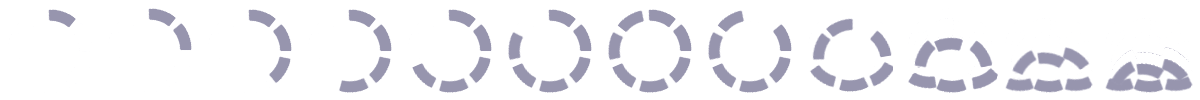
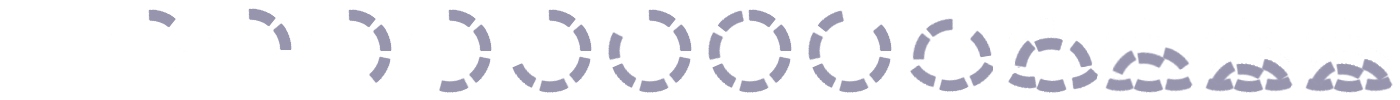
Changed door sprites and added loading loop. Mobile Text improvements WIP

Changed region(s): [[0.0925, 0.09, 1.0, 0.93], [0.0308, 0.09, 0.0617, 0.27]]

diff --git a/src/hud.js b/src/hud.js
@@ -39,7 +39,7 @@ function fadeInView (toggle, fadeTime, delay, restartTime) {
 		.color('#000000')
 		.tween({ alpha: 0}, fadeTime)
 		.bind("TweenEnd", function(){ 
-			console.log("tween complete"); 
+			//console.log("tween complete"); 
 			if (toggle) {
 				setTimeout(function() {
 					fadeOutView(false,restartTime);
@@ -57,9 +57,8 @@ function fadeOutView (toggle, fadeTime, delay, restartTime) {
 		.color('#000000')
 		.tween({ alpha: 1}, fadeTime)
 		.bind("TweenEnd", function(){ 
-			console.log("tween complete"); 
+			//console.log("tween complete"); 
 			if (toggle) {
-				loadingLoop();
 				setTimeout(function() {					
 					fadeInView(false,restartTime);
 				}, delay, restartTime);
@@ -79,7 +78,7 @@ function zoomOutFade() {
 
 function loadingLoop() {
 	//fadeOutView(false,1000);
-	var loadingIcon = Crafty.e('loadingAnimate, loading_reel').attr({x: ((maxWidth+2)*_tileSize)/2, y: ((maxHeight+4)*_tileSize)/2, w: 2*_tileSize, h: 2*_tileSize, alpha: 1});
+	var loadingIcon = Crafty.e('loadingAnimate, loading_reel').attr({x: centerPoint._x-(_tileSize*1.5), y: centerPoint._y-_tileSize, w: 2*_tileSize, h: 2*_tileSize, alpha: 1});
 	Crafty('fadeOut').attach(loadingIcon);
 	Crafty('loadingAnimate').loadingForward();
 }
@@ -135,6 +134,8 @@ function footerChange(expand) {
 
 function popUpClickHandlers() {
 	$( "#gamePopUp" ).on('mouseup', '#popUpEndBtnImg' ,function() {
+		//fade in view
+		fadeInView(false, 500);
 		//Expand the footer
 		console.log("clicked endGame");
 		//destroy the popup.
@@ -152,6 +153,7 @@ function popUpClickHandlers() {
 			userPlayerSaved.lost = userPlayerSaved.lost + 1;
 			userPlayerSaved.lostScore = userPlayerSaved.lostScore + userPlayer.score.potentialLost;
 		}
+		userPlayerSaved.active = false;
 		//Save Game Data
 		userPlayerSaved.g.push(new gameSaveObj(userPlayer.score.actual, gameSeed));
 
@@ -165,6 +167,7 @@ function popUpClickHandlers() {
 
 	$( "#gamePopUp" ).on('mouseup', '#popUpConBtnImg' ,function() {
 		//Expand the footer
+		fadeInView(false, 500);
 		console.log("clicked Continue Game");
 		//destroy the popup.
 		popUpDestroy();
@@ -180,6 +183,7 @@ function popUpDestroy() {
 }
 
 function popUpCreate() {
+	fadeOutView(false, 500);
 	$('#gamePopUp').css('top', (Crafty.viewport.height*.05)+'px');
 	$('#gamePopUp').css('left', (Crafty.viewport.width*.05)+'px');
 	$('#gamePopUp').height(Crafty.viewport.height*.8);
@@ -203,15 +207,29 @@ function popUpCreate() {
 	var userPlayerSaved = JSON.parse(localStorage.playerSaveData);
 	var totalRank = getRank((parseInt(userPlayerSaved.score) + userPlayer.score.actual));
 	if (isHome) {
-		$('#gamePopUp').html('<table id="endGamePopUpTable"><tr><th colspan="4"><strong>Are you sure you are ready to leave?</strong></th></tr><tr><td colspan="4"></td></tr><tr><td colspan="4"><hr></td></tr><tr><td colspan="2">Current Location:</td><td colspan="1" align="center" class="popUpValue ' + lostClass + ' ">' + textLost + '</td><td></td></tr><tr><td colspan="4"><hr></td></tr><tr><td colspan="3">Total number of rooms explored:</td><td class="popUpValue">' + userPlayer.score.actual + '</td></tr><tr><td colspan="3">All time total rooms explored:</td><td class="popUpValue">' + (parseInt(userPlayerSaved.score) + userPlayer.score.actual) + '</td></tr><tr><td colspan="4"></td></tr><tr><td colspan="3">Rank achieved this exploration:</td><td class="popUpValue">' + rank.currentLevel + '</td></tr><tr><td colspan="3">Rooms required to rank up:</td><td class="popUpValue">' + rank.difference + '</td></tr><tr><td colspan="3">New overall rank:</td><td class="popUpValue">' + totalRank.currentLevel + '</td></tr><tr><td colspan="3">Rooms required to rank up:</td><td class="popUpValue">' + totalRank.difference + '</td></tr><tr><td colspan="4"></td></tr><tr><td colspan="4"></td></tr><tr><td colspan="4"><hr></td></tr><tr><td colspan="4" align="center">' + leavingMessage + '</td></tr><tr><td colspan="2" align="center"><div class="popUpImgContain" id="popUpConBtnImg"></div></td><td></td><td><div class="popUpImgContain"  id="popUpEndBtnImg"></div></td></tr></table>');
+		$('#gamePopUp').html('<table id="endGamePopUpTable"><tr><th colspan="4"><strong>Are you sure you are ready to leave?</strong></th></tr><tr><td colspan="4"></td></tr><tr><td colspan="4"><hr></td></tr><tr><td colspan="2">Current Location:</td><td colspan="1" align="center" class="popUpValue ' + lostClass + ' ">' + textLost + '</td><td></td></tr><tr><td colspan="4"><hr></td></tr><tr><td colspan="3">Total number of rooms explored:</td><td class="popUpValue">' + userPlayer.score.actual + '</td></tr><tr><td colspan="3">All time total rooms explored:</td><td class="popUpValue">' + (parseInt(userPlayerSaved.score) + userPlayer.score.actual) + '</td></tr><tr><td colspan="4"></td></tr><tr><td colspan="3">Rank achieved this exploration:</td><td class="popUpValue">' + rank.currentLevel + '</td></tr><tr><td colspan="3">Rooms required to rank up:</td><td class="popUpValue">' + rank.difference + '</td></tr><tr><td colspan="3">New overall rank:</td><td class="popUpValue">' + totalRank.currentLevel + '</td></tr><tr><td colspan="3">Rooms required to rank up:</td><td class="popUpValue">' + totalRank.difference + '</td></tr><tr><td colspan="4"></td></tr><tr><td colspan="4"></td></tr><tr><td colspan="4"><hr></td></tr><tr><td colspan="4" align="center">' + leavingMessage + '</td></tr><tr><td colspan="2" align="center" class="noBorder"><div class="popUpImgContain" id="popUpConBtnImg"></div></td><td class="noBorder"></td><td class="noBorder"><div class="popUpImgContain"  id="popUpEndBtnImg"></div></td></tr></table>');
 	}
 	else {
 		rank = getRank(userPlayer.score.visible);
 		totalRank = getRank((parseInt(userPlayerSaved.score) + userPlayer.score.visible));
-		$('#gamePopUp').html('<table id="endGamePopUpTable"><tr><th colspan="4"><strong>Are you sure you are ready to leave?</strong></th></tr><b><tr><td colspan="4"></td></tr><tr><td colspan="4"><hr></td></tr><tr><td colspan="2">Current Location:</td><td colspan="1" align="center" class="popUpValue ' + lostClass + ' ">' + textLost + '</td><td></td></tr><tr><td colspan="4"><hr></td></tr><tr><td colspan="3">Total number of rooms explored:</td><td class="popUpValue">' + userPlayer.score.visible + '</td></tr><tr><td colspan="3">All time total rooms explored:</td><td class="popUpValue">' + (parseInt(userPlayerSaved.score) + userPlayer.score.visible) + '</td></tr><tr><td colspan="4"></td></tr><tr><td colspan="3">Rank achieved this exploration:</td><td class="popUpValue">' + rank.currentLevel + '</td></tr><tr><td colspan="3">Rooms required to rank up:</td><td class="popUpValue">' + rank.difference + '</td></tr><tr><td colspan="3">New overall rank:</td><td class="popUpValue">' + totalRank.currentLevel + '</td></tr><tr><td colspan="3">Rooms required to rank up:</td><td class="popUpValue">' + totalRank.difference + '</td></tr><tr><td colspan="4"></td></tr><tr><td colspan="4"></td></tr><tr><td colspan="4"><hr></td></tr><tr><td colspan="4" align="center">' + leavingMessage + '</td></tr><tr><td colspan="2" align="center"><div class="popUpImgContain" id="popUpConBtnImg"></div></td><td></td><td><div class="popUpImgContain"  id="popUpEndBtnImg"></div></td></tr></b>></table>');
+		$('#gamePopUp').html('<table id="endGamePopUpTable"><tr><th colspan="4"><strong>Are you sure you are ready to leave?</strong></th></tr><b><tr><td colspan="4"></td></tr><tr><td colspan="4"><hr></td></tr><tr><td colspan="2">Current Location:</td><td colspan="1" align="center" class="popUpValue ' + lostClass + ' ">' + textLost + '</td><td></td></tr><tr><td colspan="4"><hr></td></tr><tr><td colspan="3">Total number of rooms explored:</td><td class="popUpValue">' + userPlayer.score.visible + '</td></tr><tr><td colspan="3">All time total rooms explored:</td><td class="popUpValue">' + (parseInt(userPlayerSaved.score) + userPlayer.score.visible) + '</td></tr><tr><td colspan="4"></td></tr><tr><td colspan="3">Rank achieved this exploration:</td><td class="popUpValue">' + rank.currentLevel + '</td></tr><tr><td colspan="3">Rooms required to rank up:</td><td class="popUpValue">' + rank.difference + '</td></tr><tr><td colspan="3">New overall rank:</td><td class="popUpValue">' + totalRank.currentLevel + '</td></tr><tr><td colspan="3">Rooms required to rank up:</td><td class="popUpValue">' + totalRank.difference + '</td></tr><tr><td colspan="4"></td></tr><tr><td colspan="4"></td></tr><tr><td colspan="4"><hr></td></tr><tr><td colspan="4" align="center">' + leavingMessage + '</td></tr><tr><td colspan="2" align="center" class="noBorder"><div class="popUpImgContain" id="popUpConBtnImg"></div></td><td class="noBorder"></td><td class="noBorder"><div class="popUpImgContain"  id="popUpEndBtnImg"></div></td></tr></b>></table>');
 	}
 
-	$('#popUpEndBtnImg').height(25);
-	$('#popUpConBtnImg').height(25);
+	$('#popUpEndBtnImg').height(_tileSize);
+	$('#popUpConBtnImg').height(_tileSize);
+	mobileFontSize();
 	
+}
+
+function mobileFontSize() {
+	if (mobileCheck()) {
+		$('.containsText').css({'font-size': (_tileSize*.75) + 'px'});
+		$('#endGamePopUpTable td').css({'font-size': (_tileSize*.4) + 'px'});
+		$('#endGamePopUpTable th').css({'font-size': (_tileSize*.45) + 'px'});
+	}
+	else {
+		$('.containsText').css({'font-size': (_tileSize*.75) + 'px'});
+		$('#endGamePopUpTable td').css({'font-size': (_tileSize*.4) + 'px'});
+		$('#endGamePopUpTable th').css({'font-size': (_tileSize*.45) + 'px'});
+	}
 }

diff --git a/src/main.js b/src/main.js
@@ -94,10 +94,10 @@ function mobileCheck() {
 
 function verifySeed() {
 	//interesting seeds
-	//1748(1x1 room with door, 6877(only three rooms), 92166(only 3 rooms)
+	//1748(1x1 room with door, 6877(only three rooms), 92166(only 3 rooms), 53769 (only 2 rooms)
 	//No doors, 8696
 	//Broken Seeds
-	var brokenSeeds = [1814,98351,92166,8696];
+	var brokenSeeds = [1814,98351,92166,8696,53769];
 	if (brokenSeeds.indexOf(gameSeed) != -1) {
 		genGameSeed();
 		verifySeed();
@@ -140,15 +140,16 @@ function beginCrafty() {
 		//Crafty.background('#FCF0AD'); //Canary yellow
 		//Crafty.background('#E9E74A'); //yellowy not good on mobile
 		//Crafty.background('#FFFFC0');
-		if (mobileCheck) {
-			$('.containsText').css({'font-size': (_tileSize*.75) + 'px'});
+		mobileFontSize();
+		if (mobileCheck()) {
 			_tileSize = Math.floor(_tileSize*1.15);
+			$('.containsText').css({'font-size': (_tileSize*.75) + 'px'});
 			Crafty.viewport.init(gameClientWidth,gameClientHeight);
 		}
 		else {
 			$('.containsText').css({'font-size': (_tileSize*.75) + 'px'});
-			_tileSize = Math.floor(_tileSize*1.15);
-			Crafty.viewport.init(12*_tileSize,gameClientHeight);
+			//_tileSize = Math.floor(_tileSize*1.15);
+			//Crafty.viewport.init(12*_tileSize,gameClientHeight);
 		}
 		Crafty.background('#FFFFC0 url(res/img/hud/paper.png) center center');
 		//start game or loading scene

diff --git a/src/objects.js b/src/objects.js
@@ -22,10 +22,12 @@ function playerSaveObj() {
 	this.score = 0;
 	this.rank = 0;
 	this.lost = 0;
+	this.disconnected = 0;
 	this.lostScore = 0;
 	this.found = 0;
 	this.stats = {};
 	this.g = [];
+	this.active = true;
 }
 
 //PlayerSave Constructor
@@ -200,6 +202,7 @@ Crafty.c('PlayerCharacter', {
 				userPlayer.rotation = newPos.rotation;
 				fadeOutView(false, 300, 200);
 				setTimeout(function() {
+					loadingLoop();
 					//destroy and make a new room
 					Crafty(Crafty('FloorGround')[0]).destroy();
 					//remember previous postions and door to refrence back to.
@@ -328,17 +331,17 @@ Crafty.c('furnitureMap', {
 	}
 });
 
-//door animation
+//loading animation
 Crafty.c('loadingAnimate', {
 	init: function() {
 		this.requires('2D, ' + renderEngine + ', SpriteAnimation');
 		this.origin("center");
 		this.z = 1001;
-		this.reel('loadingForward', 300, 1, 0, 13);
-		this.reel('loadingReverse', 300, 11, 0, -11);
+		this.reel('loadingForward', 1000, 0, 0, 14);
+		this.reel('loadingReverse', 3000, 14, 0, -15);
 	},
 	loadingForward: function() {
-		this.animate('loadingForward', 1);
+		this.animate('loadingForward', -1);
 		//this.loadingReverse();
 	},
 	loadingReverse: function() {

diff --git a/src/room.js b/src/room.js
@@ -170,6 +170,7 @@ function generateRoom() {
 	}
 	else {
 		if (doorsValid) {
+			
 			//create player on room
 			createPlayerEnt();
 			if (firstRun == false) {
@@ -177,6 +178,7 @@ function generateRoom() {
 			}
 		}
 		centerRoom();
+		
 	
 		return floorMap;
 	}
@@ -184,12 +186,12 @@ function generateRoom() {
 
 function centerRoom(){
 	if (floorMap[0].length % 2 === 0) {
-		Crafty('FloorGround').x = Crafty('centerPoint')._x; // + (_tileSize/2) // This will center the room but movement is then broken :(
+		Crafty('FloorGround').x = centerPoint._x;//+ (_tileSize/2); // This will center the room but movement is then broken :(
 	}
 	else {
-		Crafty('FloorGround').x = Crafty('centerPoint')._x
+		Crafty('FloorGround').x = centerPoint._x
 	}
-	Crafty('FloorGround').y = Crafty('centerPoint')._y
+	Crafty('FloorGround').y = centerPoint._y
 }
 
 function setDoor(tileX, tileY){

diff --git a/index.html b/index.html
@@ -25,6 +25,7 @@
 		<link rel="stylesheet" type="text/css" href="res/fonts/1942/stylesheet.css">
 
 		<!-- Add window listener to start game -->
+		<meta name="viewport" content="width=device-width, initial-scale=1, maximum-scale=1, user-scalable=0"/> <!--320-->
 	</head>
 	<body>
 		<!-- Status Bar -->
@@ -33,7 +34,7 @@
 		</div> -->
 		<div id='bodyContain' class='containsText'>
 			<div id="statusWindow"></div>
-			<div id="gamePopUp"></div>
+			<div id="gamePopUp" class="containsTextFooter"></div>
 			<div id="statusWindowFooter" class="containsTextFooter"></div>
 		</div>
 	</body>

diff --git a/src/game.js b/src/game.js
@@ -36,7 +36,13 @@ Crafty.scene('Game', function() {
 		localStorage.playerSaveData = JSON.stringify(userPlayerSaved);
 	}
 	else {
-		//var userPlayerSaved = JSON.parse(localStorage.playerSaveData);
+		var userPlayerSaved = JSON.parse(localStorage.playerSaveData);
+		if (userPlayerSaved.active) {
+			userPlayerSaved.disconnected = userPlayerSaved.disconnected + 1;
+			userPlayerSaved.active = true;
+			localStorage.playerSaveData = JSON.stringify(userPlayerSaved);
+		}
+		
 	}
 
 	//reset score values

diff --git a/src/main.css b/src/main.css
@@ -53,6 +53,10 @@
   	border-left: solid 1px #000000;
 }
 
+#endGamePopUpTable .noBorder{
+	border: none;
+}
+
 .popUpValue{
 	font-weight: bold;
 }
